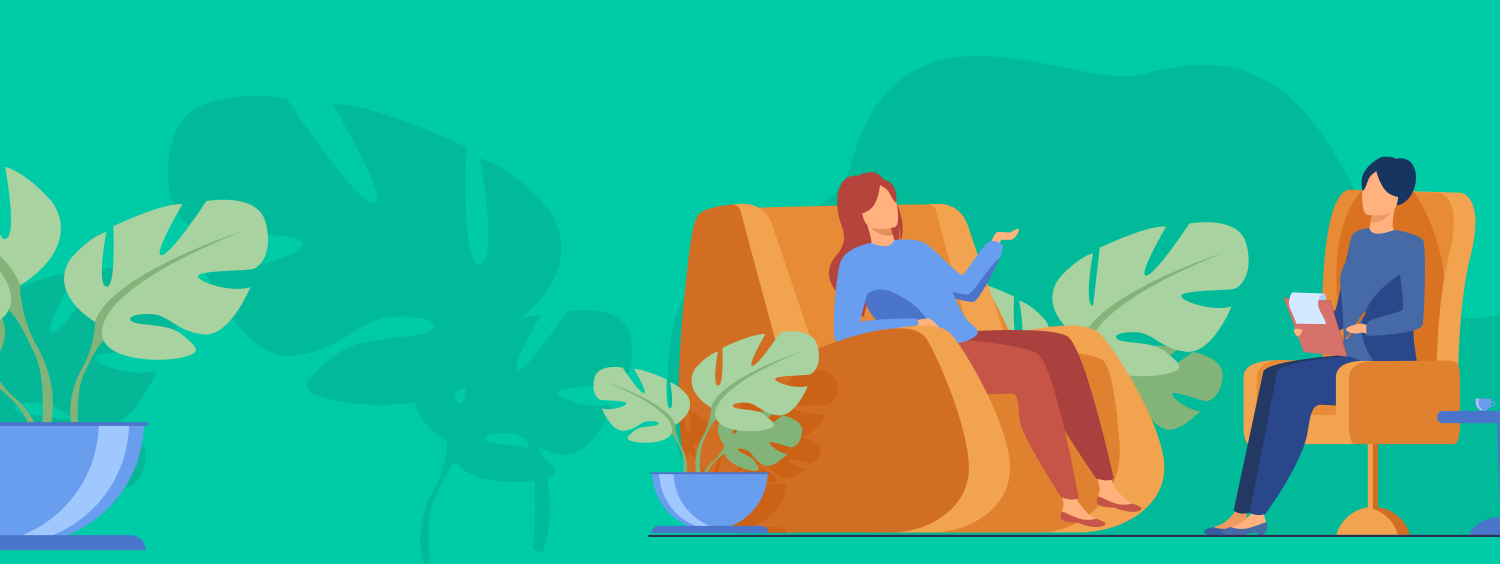
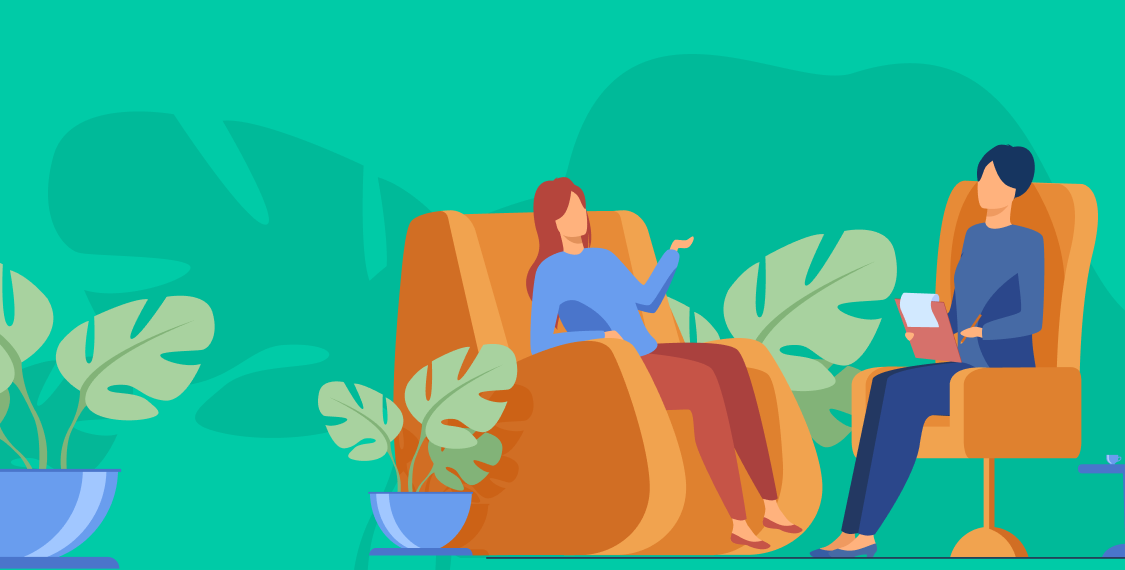
fix ui home

diff --git a/src/containers/home/tab/HomeScreen.js b/src/containers/home/tab/HomeScreen.js
@@ -320,7 +320,7 @@ class HomeScreen extends Component {
       isIPhoneX = DEVICE_WIDTH === X_WIDTH && DEVICE_HEIGHT === X_HEIGHT || DEVICE_WIDTH === XSMAX_WIDTH && DEVICE_HEIGHT === XSMAX_HEIGHT;
     }
     let statusHeight = Platform.OS == 'android' ? StatusBar.currentHeight : (isIPhoneX ? 18 : 40)
-    let height = (DEVICE_HEIGHT / 4) - this.state.height +statusHeight
+    let height = (DEVICE_WIDTH/2) - this.state.height +statusHeight
     if (height >= 0) {
       return height
     } else {
@@ -336,8 +336,8 @@ class HomeScreen extends Component {
         hideActionbar={true}
         showBackgroundHeader={true}
         backgroundStyle={{
-          height: DEVICE_HEIGHT / 4,
-          resizeMode: 'stretch'
+          height: DEVICE_WIDTH/2,
+          resizeMode: 'cover'
         }}
         backgroundHeader={headerHome}
       >
@@ -438,7 +438,7 @@ const styles = StyleSheet.create({
   },
   containerButton: {
     flexDirection: "row",
-    padding: 21,
+    paddingHorizontal:21,
     flexWrap: 'wrap',
     justifyContent: 'space-around',
     borderRadius: 5,

diff --git a/src/components/ActivityPanel.js b/src/components/ActivityPanel.js
@@ -67,7 +67,7 @@ class ActivityPanel extends Component {
                     {
                         (this.props.showBackgroundHeader || this.props.showBackgroundHeader === undefined) ?
                             this.props.backgroundHeader ?
-                                <Image source={this.props.backgroundHeader} width={DEVICE_WIDTH} style={[{ position: "absolute", top: 0, left: 0, right: 0, width: DEVICE_WIDTH }, this.props.backgroundStyle]} />
+                                <ScaledImage source={this.props.backgroundHeader} width={DEVICE_WIDTH} style={[{ position: "absolute", top: 0, left: 0, right: 0}, this.props.backgroundStyle]} />
                                 :
                                 <ScaledImage source={require("@images/app/header2.png")} width={DEVICE_WIDTH} style={{ position: "absolute", top: 0, left: 0, right: 0 }} />
                             :
